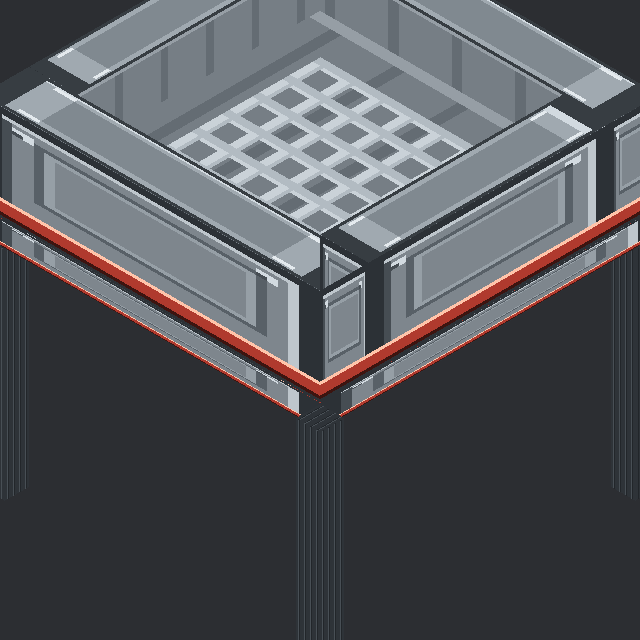
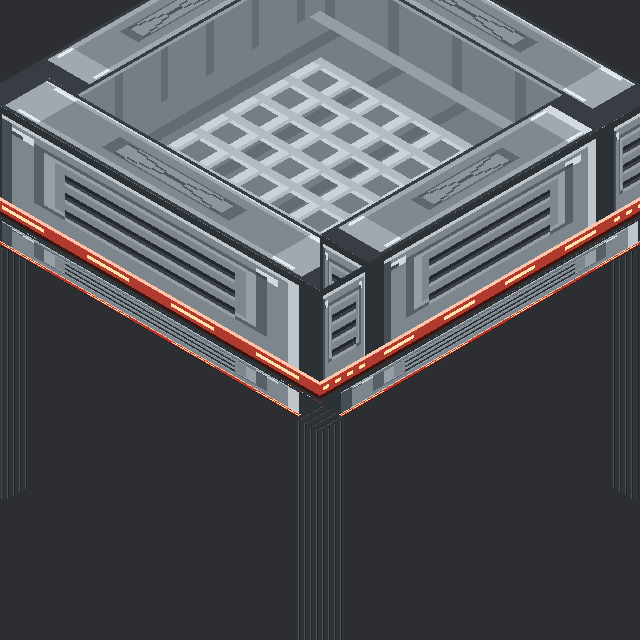
fix(m10): sync active to the client, stronger BER motion, texture detail
- Active was not saved in NBT, so getUpdateTag never carried it; the BER and
  particles treated every machine as stopped. Persist Active and send a block
  update when it flips.
- hammer head travel is 4 px per cycle, sieve input jitter 0.06 blocks.
- 32px side textures get cooling vents, hazard dashes on the band; top gets a
  raised centre plate; hammer head gets a band/chip.

diff --git a/scripts/generate_machine_assets.py b/scripts/generate_machine_assets.py
@@ -416,10 +416,17 @@ def machine_side_32(*, fuel: bool) -> Image.Image:
     for x, y in ((4, 4), (27, 4), (4, 27), (27, 27)):
         draw.rectangle((x, y, x + 1, y + 1), fill=(210, 218, 224))
         draw.point((x + 1, y + 1), fill=(70, 77, 83))
-    # bottom band
+    # cooling vents in the upper panel
+    for y in (9, 14, 19):
+        draw.rectangle((8, y, 23, y + 2), fill=(58, 64, 70))
+        draw.line((8, y, 23, y), fill=(36, 40, 44))
+        draw.line((8, y + 2, 23, y + 2), fill=(150, 159, 166))
+    # bottom band with hazard dashes
     draw.rectangle((0, 26, 31, 30), fill=band)
     draw.line((0, 26, 31, 26), fill=(255, 196, 170) if not fuel else (255, 214, 150))
     draw.line((0, 30, 31, 30), fill=(60, 20, 16))
+    for x in range(2, 32, 8):
+        draw.line((x, 28, x + 3, 28), fill=(255, 226, 170))
     return img
 
 
@@ -430,6 +437,11 @@ def machine_top_32() -> Image.Image:
     draw.rectangle((2, 2, 29, 29), fill=(160, 169, 176))
     draw.rectangle((5, 5, 26, 26), fill=(128, 137, 144))
     draw.line((2, 2, 29, 2), fill=(210, 218, 224))
+    # raised center plate with diagonal brace
+    draw.rectangle((10, 10, 21, 21), fill=(96, 104, 111))
+    draw.rectangle((11, 11, 20, 20), fill=(140, 149, 156))
+    draw.line((11, 11, 20, 20), fill=(78, 85, 91))
+    draw.line((11, 20, 20, 11), fill=(78, 85, 91))
     for x, y in ((3, 3), (27, 3), (3, 27), (27, 27)):
         draw.rectangle((x, y, x + 1, y + 1), fill=(228, 234, 238))
     return img
@@ -482,8 +494,11 @@ def hammer_head_32() -> Image.Image:
     draw.rectangle((0, 0, 31, 31), fill=(74, 81, 88))
     draw.rectangle((2, 2, 29, 29), fill=(168, 177, 184))
     draw.rectangle((4, 4, 27, 12), fill=(210, 218, 224))
+    draw.rectangle((4, 16, 27, 20), fill=(96, 104, 111))
     draw.line((4, 14, 27, 14), fill=(120, 128, 135))
     draw.line((4, 26, 27, 26), fill=(120, 128, 135))
+    draw.point((5, 27), fill=(74, 81, 88))
+    draw.point((26, 5), fill=(232, 240, 246))
     return img
 
 

diff --git a/src/main/java/com/kaifengcrt/exnihilosatellitium/client/MachineRenderer.java b/src/main/java/com/kaifengcrt/exnihilosatellitium/client/MachineRenderer.java
@@ -50,14 +50,14 @@ public final class MachineRenderer implements BlockEntityRenderer<MachineBlockEn
         if (machine.kind() == MachineKind.HAMMER) {
             // raised at the start of the cycle, slams down onto the anvil at the end
             final float lift = machine.isActive()
-                    ? (1.0F - phase) * (2.0F / 16.0F) - (0.6F / 16.0F) : 0.0F;
+                    ? (1.0F - phase) * (4.0F / 16.0F) - (1.2F / 16.0F) : 0.0F;
             this.renderHead(pose, buffer, lift);
             if (!input.isEmpty()) {
                 this.renderItem(level, input, pose, buffer, 0.5F, 6.0F / 16.0F, 0.5F, 0.22F);
             }
         } else if (!input.isEmpty()) {
             final float jitter = machine.isActive()
-                    ? (float) Math.sin((level.getGameTime() + partialTick) * 2.0F) * 0.02F : 0.0F;
+                    ? (float) Math.sin((level.getGameTime() + partialTick) * 2.0F) * 0.06F : 0.0F;
             this.renderItem(level, input, pose, buffer,
                     0.5F + jitter, 10.42F / 16.0F, 0.5F + jitter, 0.30F);
         }

diff --git a/src/main/java/com/kaifengcrt/exnihilosatellitium/common/machine/blockentity/MachineBlockEntity.java b/src/main/java/com/kaifengcrt/exnihilosatellitium/common/machine/blockentity/MachineBlockEntity.java
@@ -569,6 +569,7 @@ public class MachineBlockEntity extends BlockEntity implements MenuProvider, Con
         }
         tag.put("Items", items);
         tag.putInt("Work", this.work);
+        tag.putBoolean("Active", this.active);
         tag.putInt("BurnHalfTicks", this.burnHalfTicks);
         tag.putInt("BurnHalfTotal", this.burnHalfTotal);
         if (this.energy != null) {
@@ -591,6 +592,7 @@ public class MachineBlockEntity extends BlockEntity implements MenuProvider, Con
             }
         }
         this.work = tag.getInt("Work");
+        this.active = tag.getBoolean("Active");
         this.burnHalfTicks = tag.getInt("BurnHalfTicks");
         this.burnHalfTotal = tag.getInt("BurnHalfTotal");
         if (this.energy != null) {

diff --git a/docs/data-format.md b/docs/data-format.md
@@ -622,6 +622,7 @@ config/自动发现留给后续 schema 修订（见 [tech-debt.md](tech-debt.md)
 |---|---|---|
 | `Items` | list | 全部槽位；每项 `{Slot: byte, id, count, components?}`（3×4 输出后电动 18 格 / 内能 15 格） |
 | `Work` | int | 当前这一件的进度（tick）；满 `ticksPerOperation` 归零并产出 |
+| `Active` | boolean | 是否正在工作；变化时服务端 `sendBlockUpdated`，客户端 BER/粒子用 |
 | `Energy` | int | 电动版内部 FE；内能版没有这个键 |
 | `BurnHalfTicks` | int | 内能版剩余燃料，单位是**半个**燃烧 tick（煤 1600 tick = 3200） |
 | `BurnHalfTotal` | int | 当前这根燃料的总量，用于 GUI 火焰条 |
